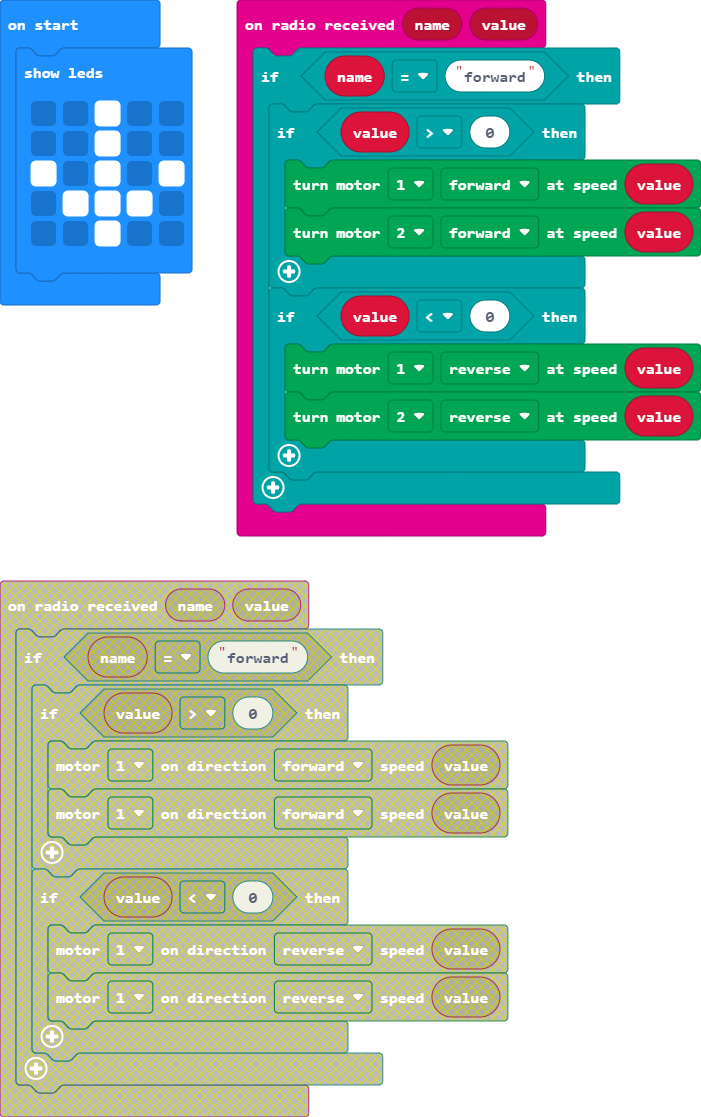
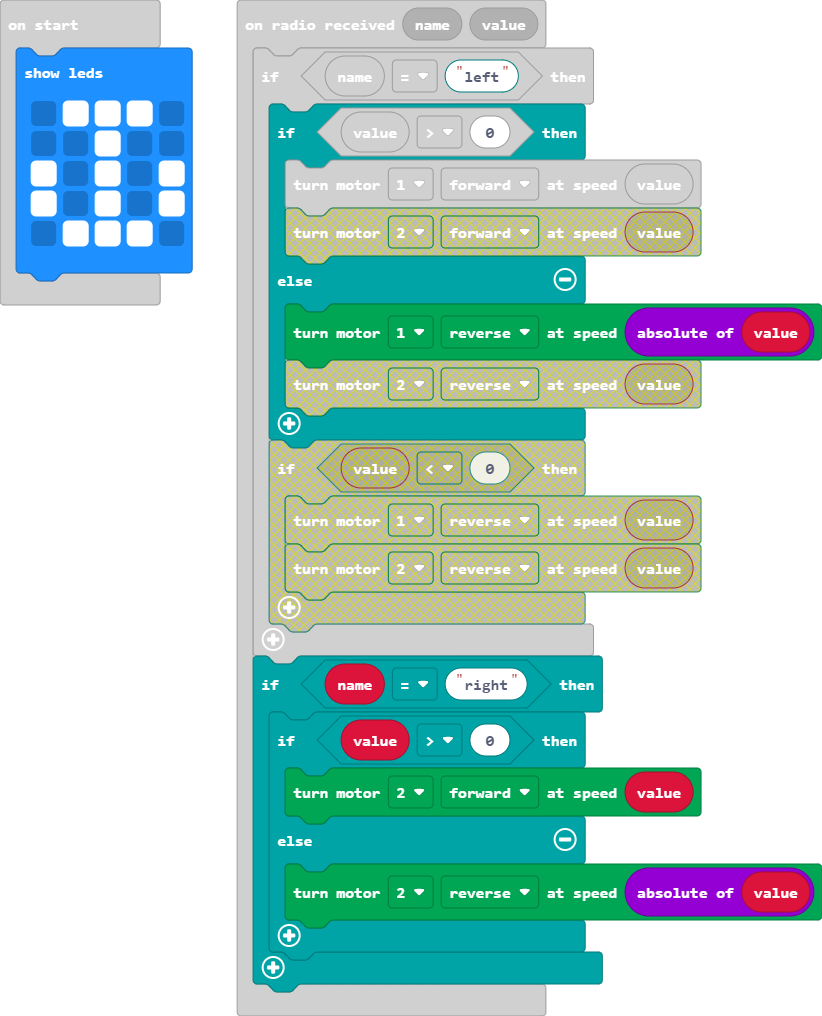
Update main.blocks, main.ts

diff --git a/main.ts b/main.ts
@@ -1,19 +1,23 @@
 radio.onReceivedValue(function (name, value) {
-    if (name == "forward") {
+    if (name == "left") {
         if (value > 0) {
             kitronik_klip_motor.motorOn(kitronik_klip_motor.Motors.Motor1, kitronik_klip_motor.MotorDirection.Forward, value)
-            kitronik_klip_motor.motorOn(kitronik_klip_motor.Motors.Motor2, kitronik_klip_motor.MotorDirection.Forward, value)
+        } else {
+            kitronik_klip_motor.motorOn(kitronik_klip_motor.Motors.Motor1, kitronik_klip_motor.MotorDirection.Reverse, Math.abs(value))
         }
-        if (value < 0) {
-            kitronik_klip_motor.motorOn(kitronik_klip_motor.Motors.Motor1, kitronik_klip_motor.MotorDirection.Reverse, value)
-            kitronik_klip_motor.motorOn(kitronik_klip_motor.Motors.Motor2, kitronik_klip_motor.MotorDirection.Reverse, value)
+    }
+    if (name == "right") {
+        if (value > 0) {
+            kitronik_klip_motor.motorOn(kitronik_klip_motor.Motors.Motor2, kitronik_klip_motor.MotorDirection.Forward, value)
+        } else {
+            kitronik_klip_motor.motorOn(kitronik_klip_motor.Motors.Motor2, kitronik_klip_motor.MotorDirection.Reverse, Math.abs(value))
         }
     }
 })
 basic.showLeds(`
-    . . # . .
-    . . # . .
-    # . # . #
     . # # # .
     . . # . .
+    # . # . #
+    # . # . #
+    . # # # .
     `)
